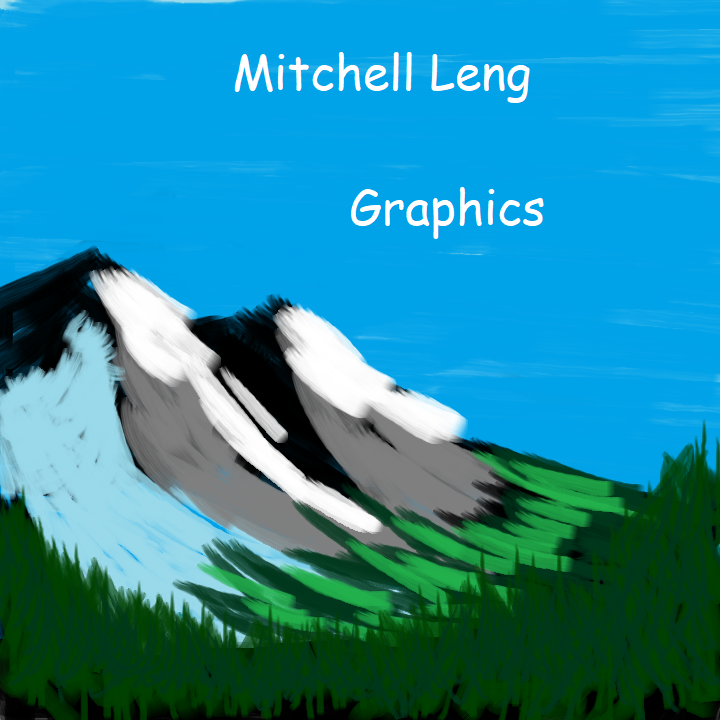
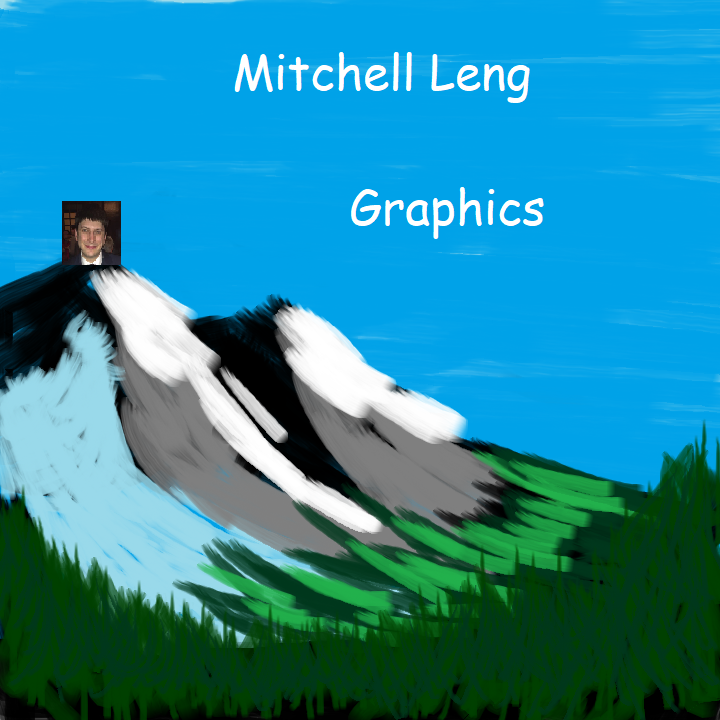
mjl159 credits added

Changed region(s): [[0.0611, 0.275, 0.1833, 0.3667]]

diff --git a/Credits.cpp b/Credits.cpp
@@ -17,7 +17,7 @@ SDL_Window* gWindow = nullptr;
 SDL_Renderer* gRenderer = nullptr;
 std::vector<SDL_Texture*> gTex;
 
-bool init() {	
+bool init() {
 	// Flag what subsystems to initialize
 	// For now, just video
 	if (SDL_Init(SDL_INIT_VIDEO) < 0) {
@@ -29,8 +29,8 @@ bool init() {
 	if(!SDL_SetHint(SDL_HINT_RENDER_SCALE_QUALITY, "1")) {
 		std::cout << "Warning: Linear texture filtering not enabled!" << std::endl;
 	}
-	
-	
+
+
 	gWindow = SDL_CreateWindow("CS1666-RPG", SDL_WINDOWPOS_UNDEFINED, SDL_WINDOWPOS_UNDEFINED, SCREEN_WIDTH, SCREEN_HEIGHT, SDL_WINDOW_SHOWN);
 	if (gWindow == nullptr) {
 		std::cout << "Window could not be created! SDL_Error: " << SDL_GetError() << std::endl;
@@ -43,14 +43,14 @@ bool init() {
 	 *   (second arg, -1)
 	 */
 	gRenderer = SDL_CreateRenderer(gWindow, -1, SDL_RENDERER_ACCELERATED);
-	if (gRenderer == nullptr) {	
+	if (gRenderer == nullptr) {
 		std::cout << "Renderer could not be created! SDL_Error: " << SDL_GetError() << std::endl;
 		return  false;
 	}
 
 	// Set renderer draw/clear color
 	SDL_SetRenderDrawColor( gRenderer, 0x00, 0x00, 0x00, 0xFF );
-			
+
 	// Initialize PNG loading via SDL_image extension library
 	int imgFlags = IMG_INIT_PNG;
 	imgFlags = imgFlags | IMG_INIT_JPG;//add jpg support
@@ -59,7 +59,7 @@ bool init() {
 		std::cout << "SDL_image could not initialize! SDL_image Error: " << IMG_GetError() << std::endl;
 		return false;
 	}
-	
+
 	return true;
 }
 
@@ -115,7 +115,8 @@ int main() {
 	gTex.push_back(loadImage("CREDIT_IMG/my_greatest_creation.png")); // jake
 	gTex.push_back(loadImage("CREDIT_IMG/ilum.jpg")); // James Finkel
 	gTex.push_back(loadImage("CREDIT_IMG/SankethKolliCredit.jpg"); //Sanketh Kolli - ssk38
-	
+	gTex.push_back(loadImage("CREDIT_IMG/mjl159Credits.png")); //Mitchell Leng - mjl159
+
 
 //This is for the actual credits
 	for(auto i: gTex)
